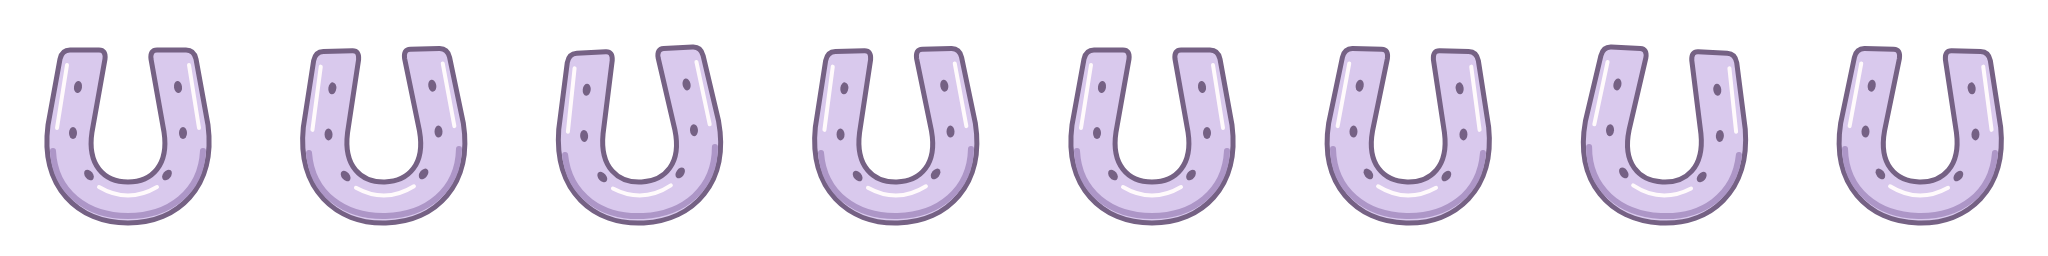
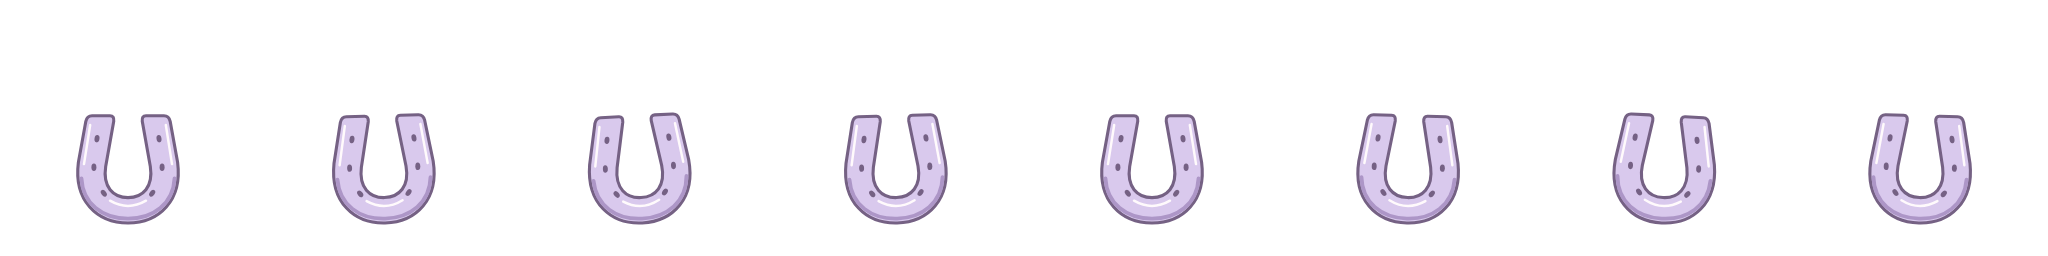
fix(characters): reduce pony recall horseshoe size

Changed region(s): [[0.0, 0.1562, 1.0, 0.875]]

diff --git a/artwork/mobility.py b/artwork/mobility.py
@@ -27,7 +27,8 @@ def peek(kind, frame):
     bevel = path('M53 151C55 192 87 216 128 216C169 216 201 192 203 151', 'none', shadow, 6)
     shine = path('M67 65L57 128M189 65L199 128M99 187Q128 204 157 187', 'none', '#fffafc', 4)
     nails = ''.join(f'<ellipse cx="{x}" cy="{y}" rx="4" ry="6" transform="rotate({tilt} {x} {y})" fill="{outline}"/>' for x,y,tilt in [(78,87,9),(73,133,0),(89,175,-38),(178,87,-9),(183,133,0),(167,175,38)])
-    return f'<g transform="rotate({angle} 128 151)">{shoe}{bevel}{shine}{nails}</g>'
+    # Keep the attachment near the frame edge while reducing only visible artwork.
+    return f'<g transform="translate(128 223) scale(0.62) translate(-128 -223)"><g transform="rotate({angle} 128 151)">{shoe}{bevel}{shine}{nails}</g></g>'
 
 
 
